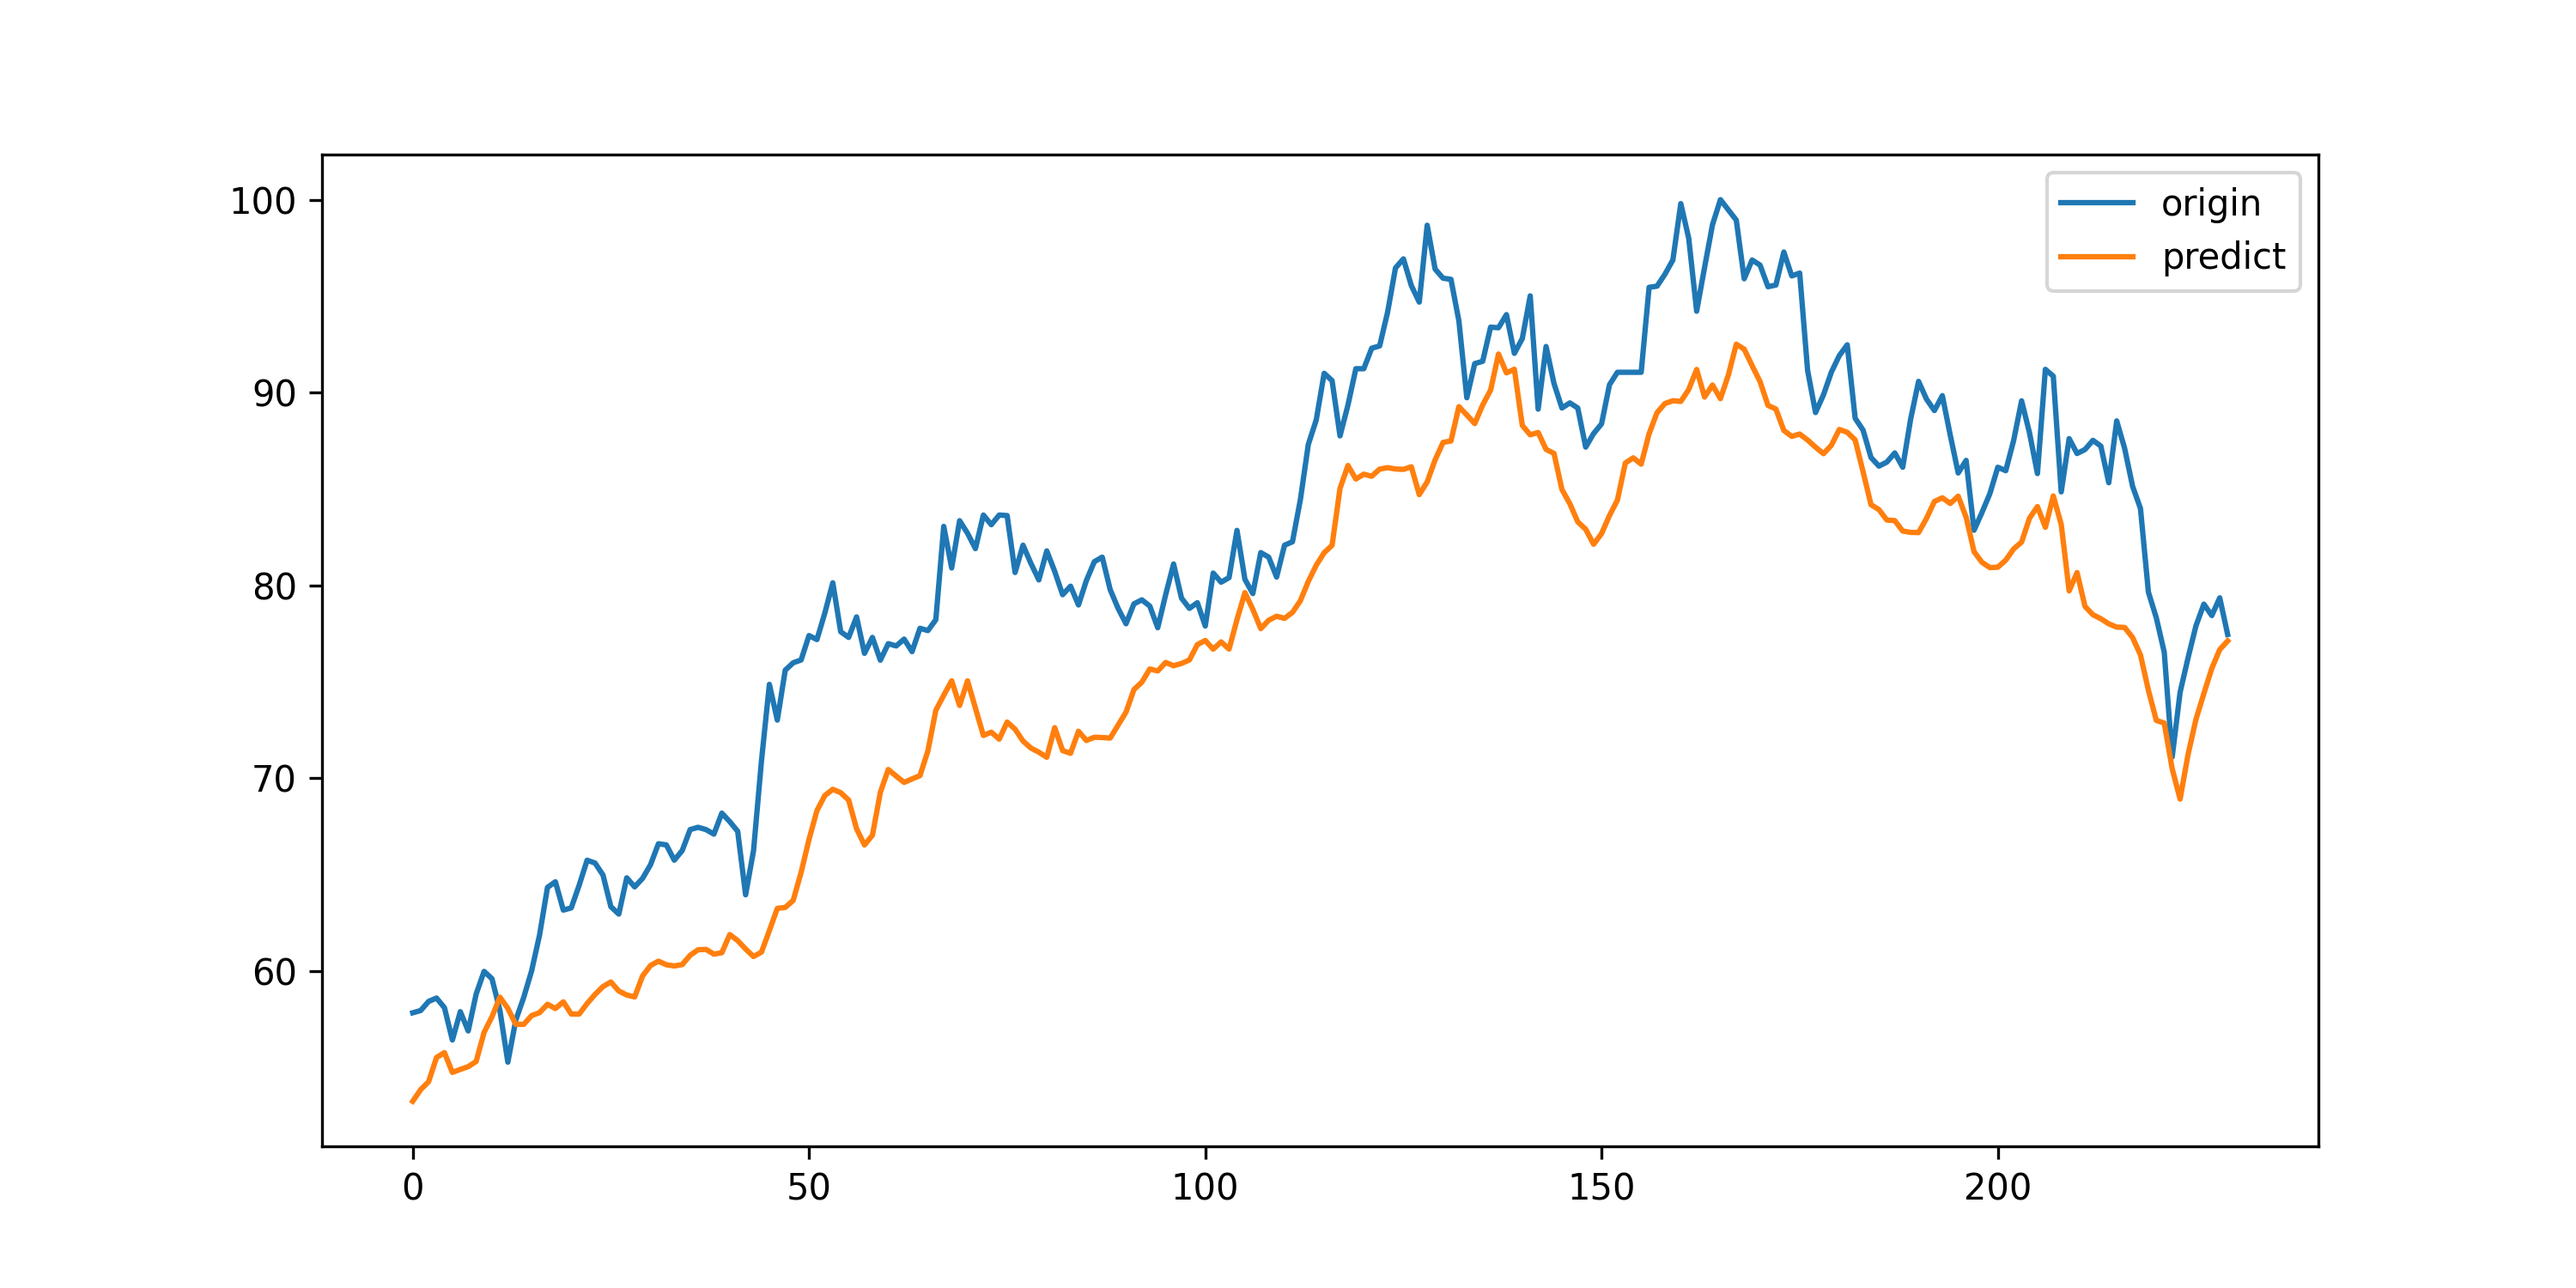
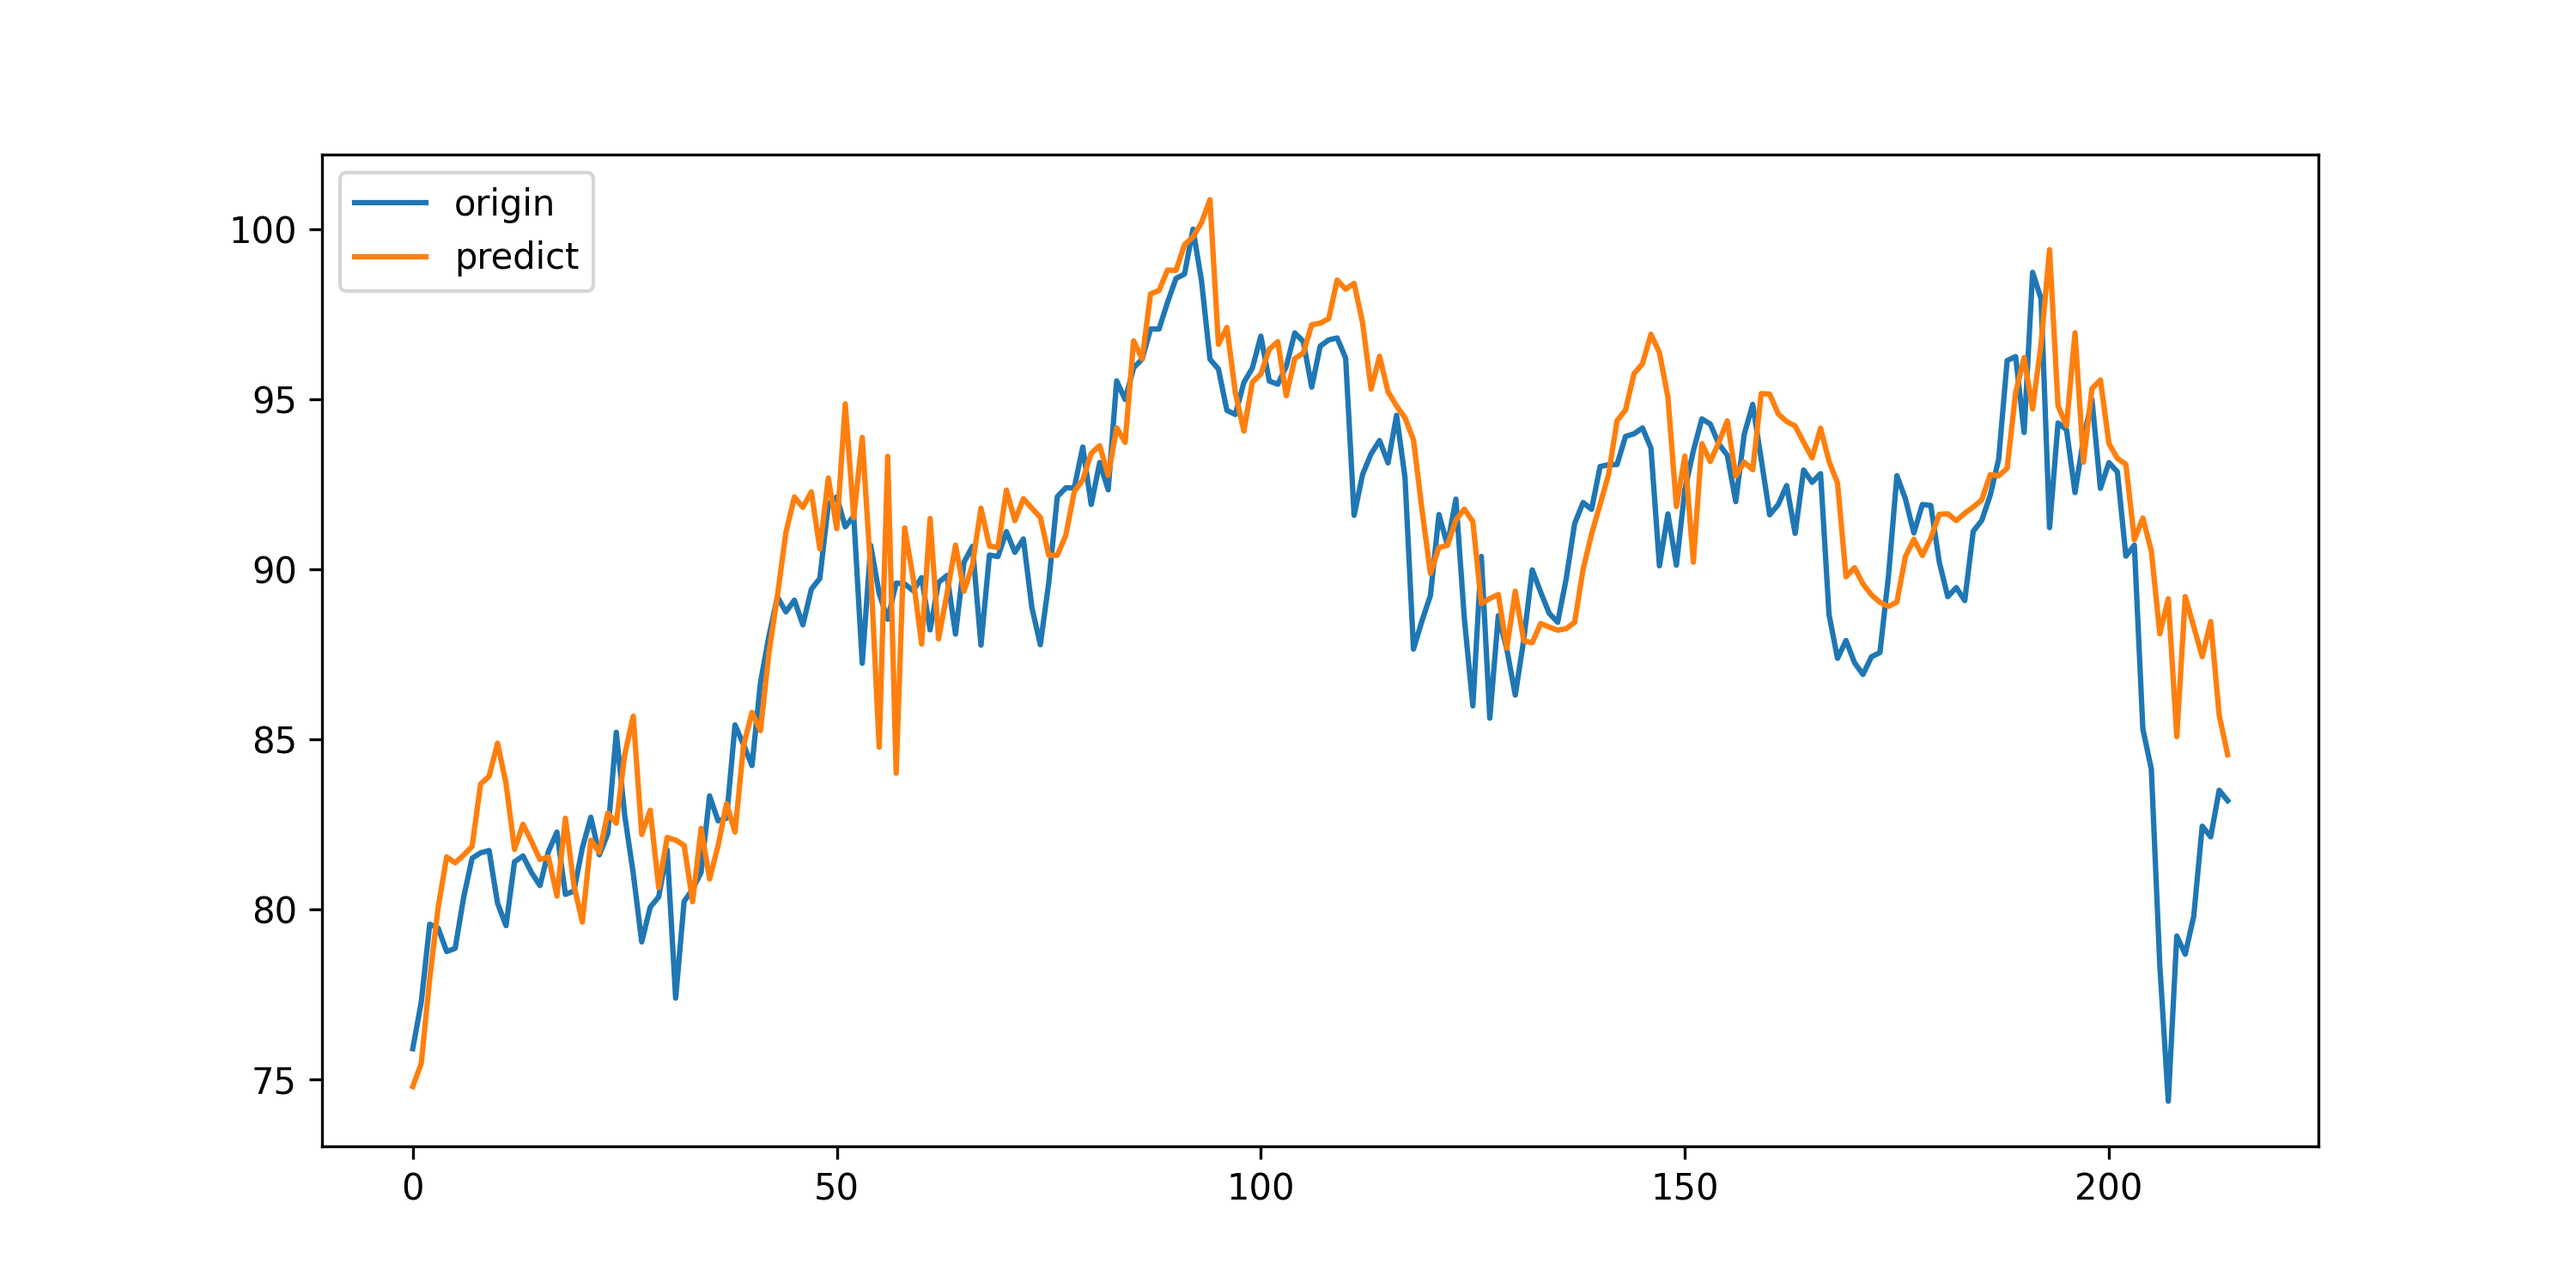
Update model

diff --git a/test7.py b/test7.py
@@ -6,7 +6,7 @@ from tensorflow.keras import layers
 from sklearn.preprocessing import minmax_scale
 
 
-codes = ['ALL.AX' ,'GMG.AX' , 'ANZ.AX', 'BHP.AX', 'SUN.AX' ,  'CSL.AX', 'FMG.AX']
+codes = ['AXJO'  ]
 seq_array = []
 # seq_array.append(get_rate_array(get_column_data_csv("data/SUN.AX.csv", "Adj Close")))
 for code in codes:
@@ -15,10 +15,13 @@ for code in codes:
     # seq_array.append(prices)
     seq_array.append(minmax_scale(prices, feature_range=(0,100)))
 
+for i in range (5, 15 ,2):
+    avg_prices = get_pre_n_average_array(seq_array[0], i  * 2)
+    seq_array.append(avg_prices)
+
 seq_len =  len(seq_array[0])
 
-
-input_steps = 15
+input_steps = 30
 target_steps = 10
 n_features = len(seq_array)
 
@@ -39,11 +42,11 @@ test_x, test_y = input[sep_index:], target[sep_index:]
 
 
 model = tf.keras.Sequential()
-model.add(layers.GRU(n_features * 10, activation='relu', input_shape=(input_steps, n_features)))
-model.add(layers.Dense(n_features * 2 , activation='relu'))
+model.add(layers.GRU(n_features * 5, activation='relu', input_shape=(input_steps, n_features)))
+model.add(layers.Dense(target_steps * 2 , activation='relu'))
 model.add(layers.Dense(target_steps))
 model.summary()
-model.compile(optimizer=tf.keras.optimizers.RMSprop(0.001), loss=tf.keras.losses.Huber())
+model.compile(optimizer=tf.keras.optimizers.RMSprop(0.0001), loss=tf.keras.losses.Huber())
 h = model.fit(train_x,train_y, epochs=50)
 
 p_train_y = model.predict(train_x)

diff --git a/utils.py b/utils.py
@@ -109,6 +109,8 @@ def plot_sub(x_arrays, y_arrays, label_array, file_name):
             x = x_array[i]
             y = y_array[i]
             ax.plot(x, y, label = label_array[i])
+        ax.set_yticklabels([])
+        ax.set_xticklabels([])
     ax.legend(loc='best')
     plt.savefig(file_name, dpi=300)
 
